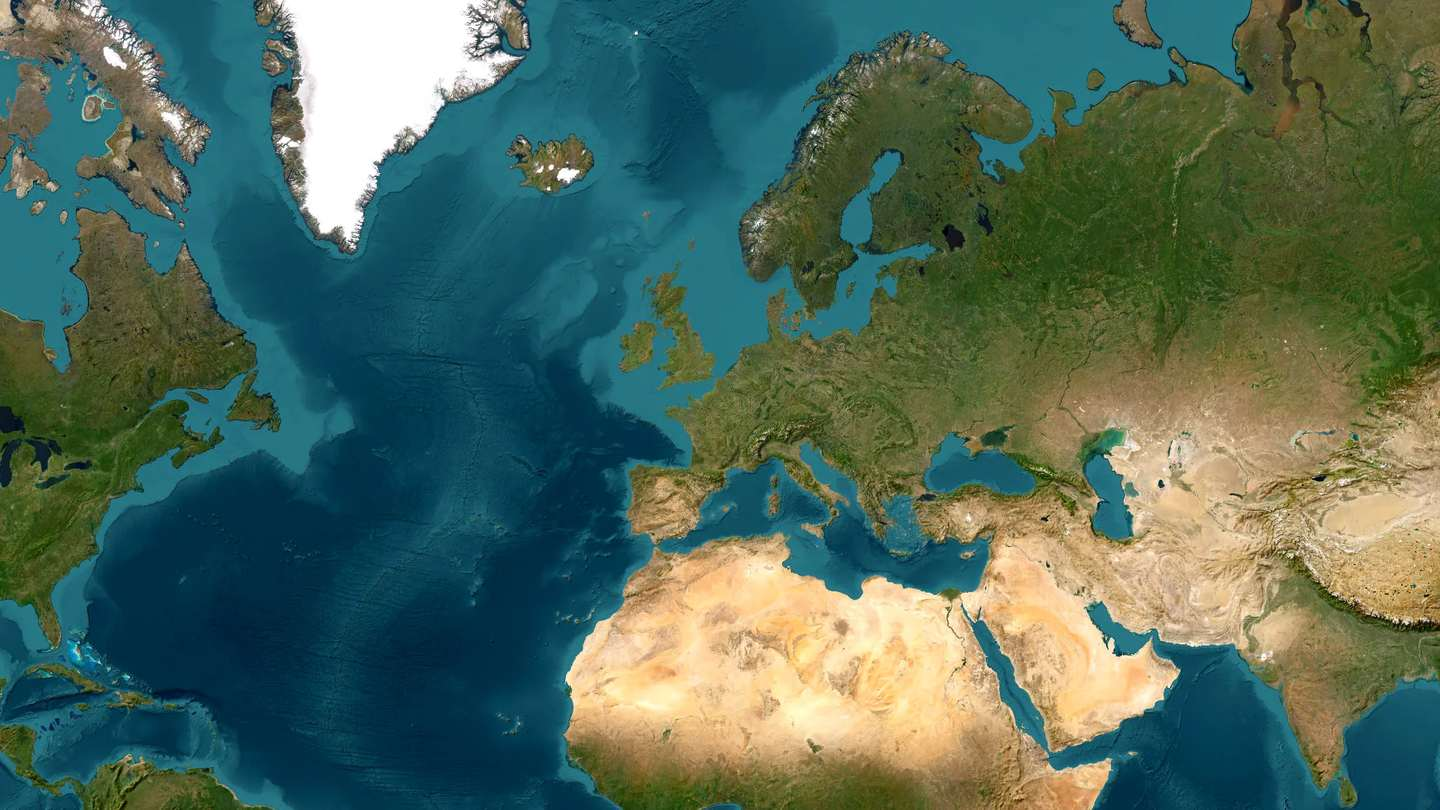
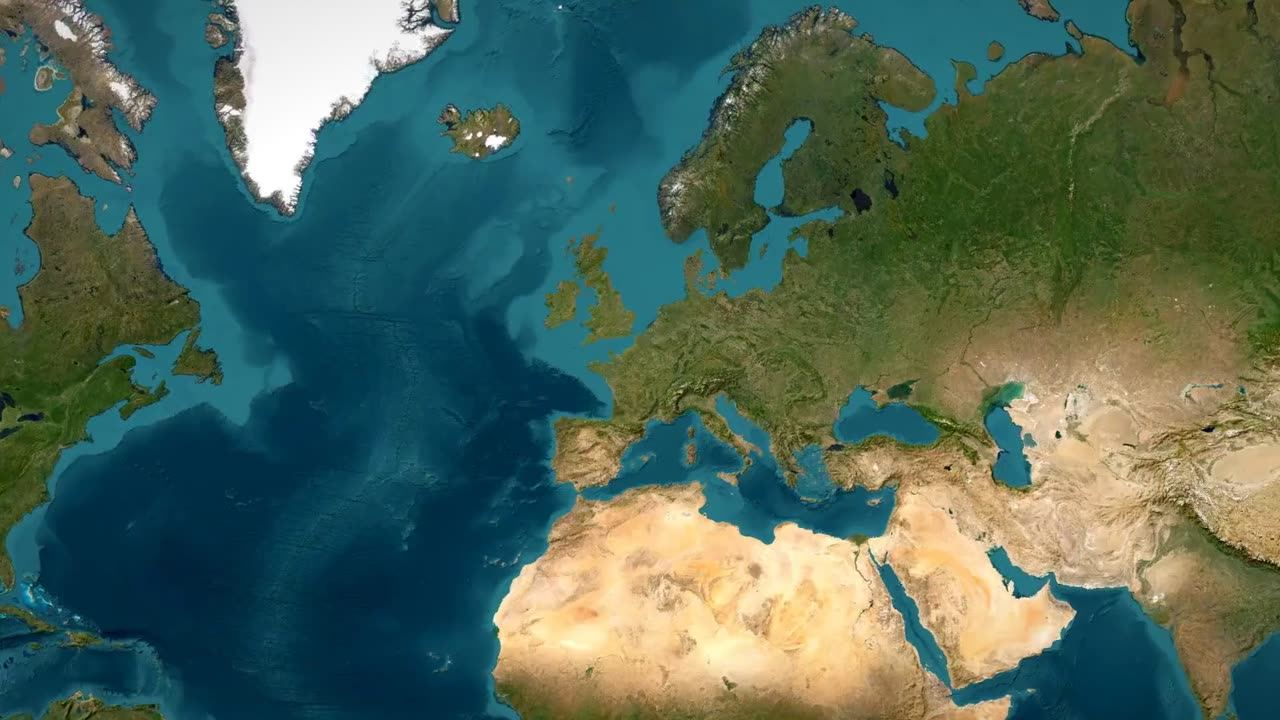
Autoplay bloqué signalé, connexions lentes respectées, barreau 1600, RGPD
- Bouton « Lancer le film » affiché seulement si le navigateur refuse
  l'autoplay (sinon le visiteur reste devant une image fixe sans le savoir).
- Le préchargement de la vidéo est suspendu en 2G/3G et en mode économie.
- Barreau orsay-1600.webp ajouté au srcset (un écran 1440 chargeait 2400 px).
- user_agent retiré de l'insertion Supabase : donnée inutile à la prise de
  contact.
- Titre raccourci pour l'affichage en résultat de recherche.

diff --git a/index.html b/index.html
@@ -3,7 +3,7 @@
 <head>
   <meta charset="utf-8">
   <meta name="viewport" content="width=device-width, initial-scale=1">
-  <title>42, rue du Bac, Paris 7ᵉ. Deux appartements réunissables face au musée d'Orsay</title>
+  <title>42, rue du Bac, Paris 7ᵉ — deux appartements réunissables</title>
   <meta name="description" content="Deux appartements réunissables aux deux derniers étages d'un immeuble de 1830 — 64 m² au 5ᵉ, 37 m² au 6ᵉ, 109,29 m² au sol au total. Quartier Saint-Thomas d'Aquin, vues dégagées sur le musée d'Orsay. 1 995 000 €.">
   <meta property="og:title" content="42, rue du Bac, Paris 7ᵉ. Deux appartements réunissables">
   <meta property="og:description" content="Aux deux derniers étages, vues dégagées sur le musée d'Orsay et les toits de Paris. 1 995 000 €.">
@@ -27,9 +27,9 @@
   <link rel="apple-touch-icon" href="assets/apple-touch-icon.png">
   <link rel="preload" href="assets/fonts/CormorantGaramond-400.woff2" as="font" type="font/woff2" crossorigin>
   <link rel="preload" href="assets/fonts/Manrope-400.woff2" as="font" type="font/woff2" crossorigin>
-  <link rel="preload" as="image" type="image/webp" imagesrcset="assets/img/orsay-1200.webp 1200w, assets/img/orsay-2400.webp 2400w" imagesizes="100vw" fetchpriority="high">
+  <link rel="preload" as="image" type="image/webp" imagesrcset="assets/img/orsay-1200.webp 1200w, assets/img/orsay-1600.webp 1600w, assets/img/orsay-2400.webp 2400w" imagesizes="100vw" fetchpriority="high">
   <link rel="stylesheet" href="assets/fonts/fonts.css?v=17">
-  <link rel="stylesheet" href="css/main.css?v=27">
+  <link rel="stylesheet" href="css/main.css?v=28">
   <noscript><style>.reveal{opacity:1;transform:none}.hero__content>*{opacity:1;transform:none}.opener__frame{transform:none;border-radius:0}</style></noscript>
   <script type="application/ld+json">
   {
@@ -117,7 +117,7 @@
     <section class="hero" id="hero">
       <picture class="hero__media">
         <img src="assets/img/orsay-2400.webp" width="2400" height="1600"
-             srcset="assets/img/orsay-1200.webp 1200w, assets/img/orsay-2400.webp 2400w" sizes="100vw"
+             srcset="assets/img/orsay-1200.webp 1200w, assets/img/orsay-1600.webp 1600w, assets/img/orsay-2400.webp 2400w" sizes="100vw"
              alt="Vue depuis l'appartement sur les toits et le pavillon du musée d'Orsay au soleil couchant"
              fetchpriority="high" decoding="async">
       </picture>
@@ -146,6 +146,7 @@
             <p class="opener__caption-name" id="capName"></p>
           </div>
           <button class="opener__skip" id="openerSkip" type="button">Passer<span aria-hidden="true">&nbsp;→</span></button>
+          <button class="opener__play" id="openerPlay" type="button"><span aria-hidden="true"></span>Lancer le film</button>
           <div class="opener__bar" id="openerBar" aria-hidden="true"><span></span></div>
         </div>
       </div>
@@ -370,6 +371,6 @@
     <p class="lightbox__count" id="lbCount"></p>
   </div>
 
-  <script src="js/main.js?v=27" defer></script>
+  <script src="js/main.js?v=28" defer></script>
 </body>
 </html>

diff --git a/js/main.js b/js/main.js
@@ -70,7 +70,12 @@
     frame.style.setProperty("--op-r", `${Math.round(22 * (1 - e))}px`);
     // Préchargement de la vidéo au premier geste de scroll seulement :
     // un visiteur qui rebondit sur le hero ne télécharge pas le film.
-    if (window.scrollY > 0 && r.top < vh * 1.6 && video.preload === "none") { video.preload = "auto"; video.load(); }
+    const conn = navigator.connection;
+    const frugal = conn && (conn.saveData || /2g|3g/.test(conn.effectiveType || ""));
+    if (window.scrollY > 0 && r.top < vh * 1.6 && video.preload === "none" && !frugal) {
+      video.preload = "auto";
+      video.load();
+    }
   };
   window.addEventListener("scroll", () => {
     if (!ticking) { ticking = true; requestAnimationFrame(driveOpener); }
@@ -79,12 +84,23 @@
 
   // Lecture/pause selon la visibilité (recette iOS : muted + playsinline + catch).
   // Pendant l'immersion vidéo, le CTA collant s'efface.
+  // Si le navigateur refuse l'autoplay, on le dit : sinon le visiteur reste
+  // devant une image fixe sans comprendre qu'il manque le film.
   new IntersectionObserver(([e]) => {
     openerOn = e.intersectionRatio >= 0.5;
-    if (openerOn) video.play().catch(() => {});
-    else video.pause();
+    if (openerOn) {
+      video.play()
+        .then(() => frame.classList.remove("is-blocked"))
+        .catch(() => frame.classList.add("is-blocked"));
+    } else {
+      video.pause();
+    }
     syncCta();
   }, { threshold: [0, 0.5] }).observe($(".opener__sticky"));
+
+  $("#openerPlay").addEventListener("click", () => {
+    video.play().then(() => frame.classList.remove("is-blocked")).catch(() => {});
+  });
 
   // Légendes synchronisées sur la table de montage d'Ouverture42 (30,1 s) :
   // descente 0→14,4 s, cour, séjour, pièce vue, 6e, toits. [t, eyebrow, nom]
@@ -224,11 +240,12 @@
   const visitePlay = $("#visitePlay");
   if (visiteVideo && visitePlay) {
     const frame = visiteVideo.closest(".visite__frame");
+    /* Le bouton disparaît dès la première lecture : le remettre en pause le
+       ferait réapparaître par-dessus les contrôles natifs, qui restent visibles. */
     visitePlay.addEventListener("click", () => {
       visiteVideo.play();
       frame.classList.add("is-playing");
     });
-    visiteVideo.addEventListener("ended", () => frame.classList.remove("is-playing"));
   }
 
   /* ---------- [7] Formulaire → table leads (Supabase, insert-only) ---------- */
@@ -267,8 +284,7 @@
         body: JSON.stringify({
           nom, email,
           tel: tel || null,
-          source: "site-42-rue-du-bac",
-          user_agent: navigator.userAgent.slice(0, 500)
+          source: "site-42-rue-du-bac"
         })
       });
       if (!res.ok) throw new Error(String(res.status));

diff --git a/css/main.css b/css/main.css
@@ -230,6 +230,22 @@ h1, h2, h3 { font-family: var(--serif); font-weight: 500; color: var(--ink); }
 @media (max-width: 700px) {
   .opener__skip { padding: 0.9em 1.3em; } /* cible tactile ≥ 44 px */
 }
+/* Visible seulement si le navigateur a refusé la lecture automatique. */
+.opener__play {
+  position: absolute; top: 50%; left: 50%; transform: translate(-50%, -50%);
+  display: none; align-items: center; gap: 0.85em;
+  font-size: 0.7rem; letter-spacing: 0.22em; text-transform: uppercase;
+  color: #f6f4ef; background: rgba(10, 10, 12, 0.55);
+  border: 1px solid rgba(246, 244, 239, 0.4);
+  padding: 0.9em 1.6em;
+  backdrop-filter: blur(8px); -webkit-backdrop-filter: blur(8px);
+}
+.opener__play span {
+  width: 0; height: 0;
+  border-left: 9px solid currentColor;
+  border-top: 6px solid transparent; border-bottom: 6px solid transparent;
+}
+.opener__frame.is-blocked .opener__play { display: inline-flex; }
 .opener__bar { position: absolute; left: 0; right: 0; bottom: 0; height: 2px; background: rgba(244, 242, 237, 0.12); }
 .opener__bar span { display: block; height: 100%; width: 0; background: #d8bc85; }
 
